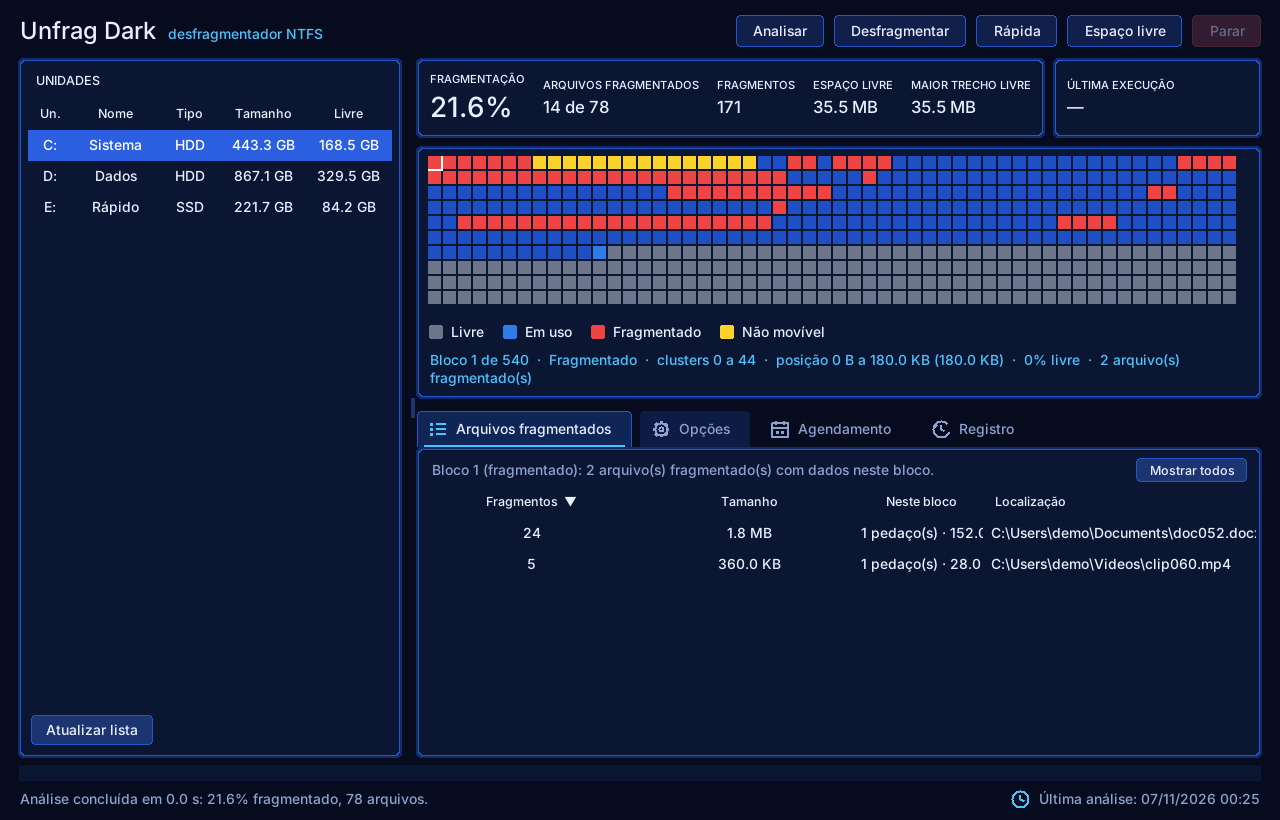
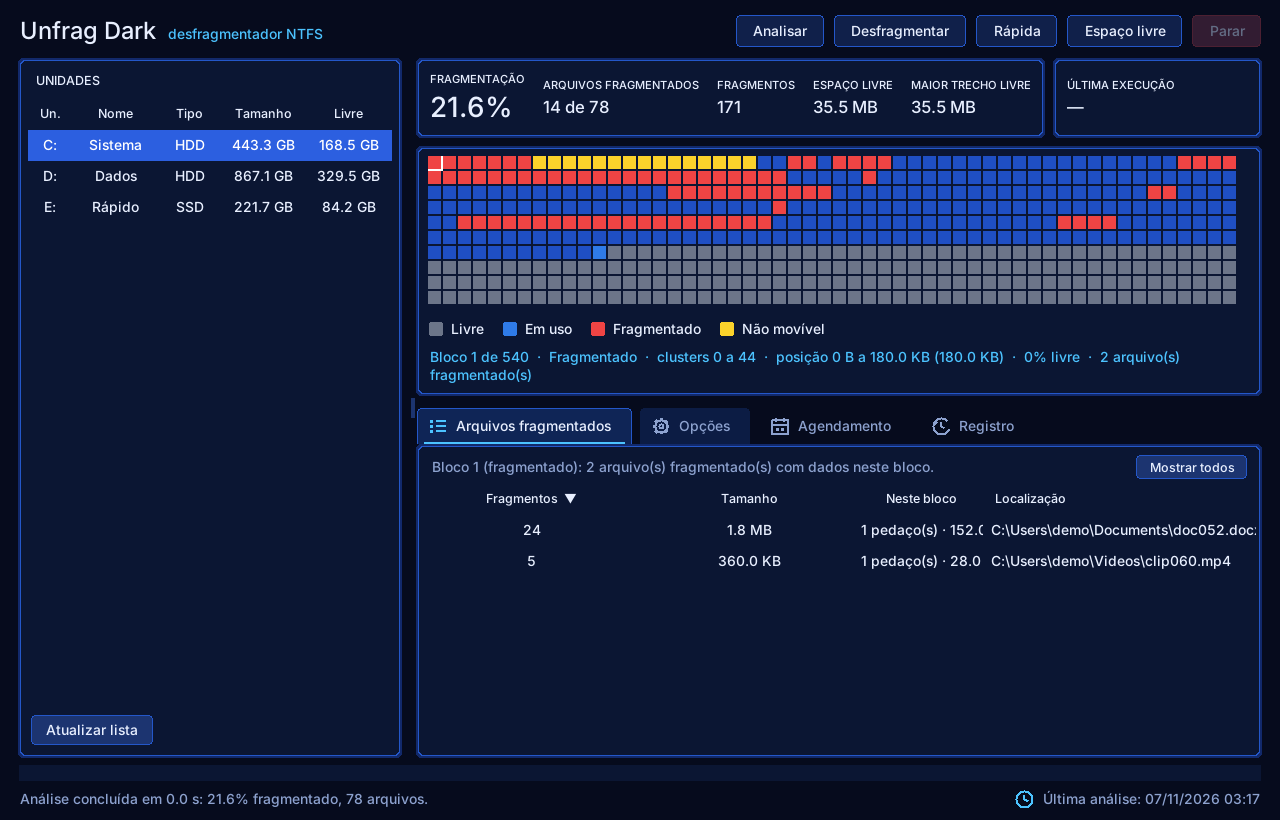
Abas com tamanho fixo: trocar de menu não muda mais a escala da janela
Claude-Session: https://claude.ai/code/session_01HBMELiZvNgmfTNszBkAw8x

Changed region(s): [[0.3125, 0.3963, 1.0, 0.7012], [0.7812, 0.9451, 0.9688, 1.0]]

diff --git a/src/unfrag/widgets.py b/src/unfrag/widgets.py
@@ -173,6 +173,8 @@ class PillButton(tk.Canvas):
 class TabView(tk.Frame):
     """Barra de abas (ícone + texto) e um cartão que mostra a página selecionada."""
 
+    FIXED_HEIGHT = 270
+
     def __init__(self, parent, colors: Dict[str, str]):
         super().__init__(parent, bg=colors["bg"])
         self.c = colors
@@ -180,6 +182,10 @@ class TabView(tk.Frame):
         self.bar.pack(fill="x")
         self.card = Card(self, colors["panel"], colors["glow"], colors["edge"], colors["bg"], pad=(6, 6))
         self.card.pack(fill="both", expand=True, pady=(0, 0))
+        # tamanho fixo: a altura pedida não depende da página aberta, então trocar de aba
+        # não muda a escala do resto da janela (a página rola ou se ajusta dentro do cartão)
+        self.card.configure(height=self.FIXED_HEIGHT, width=10)
+        self.card.pack_propagate(False)
         self.body = self.card.inner
         self.body.columnconfigure(0, weight=1)
         self.body.rowconfigure(0, weight=1)
